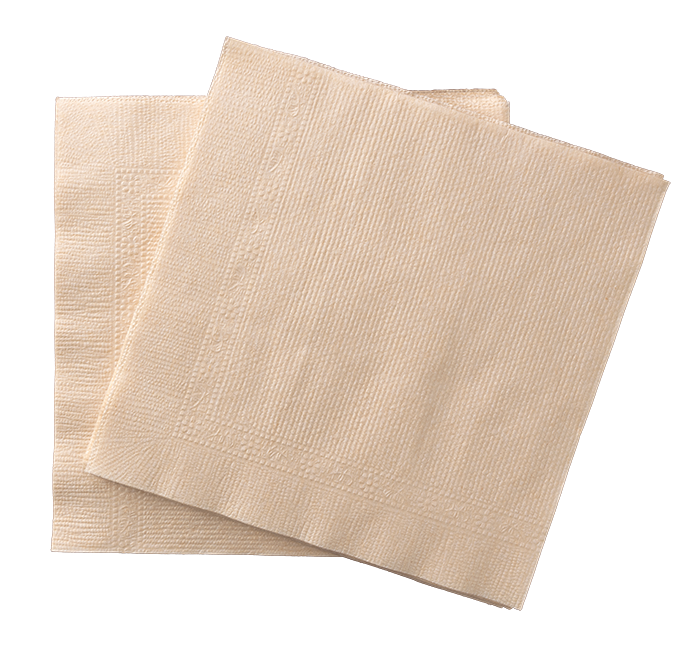
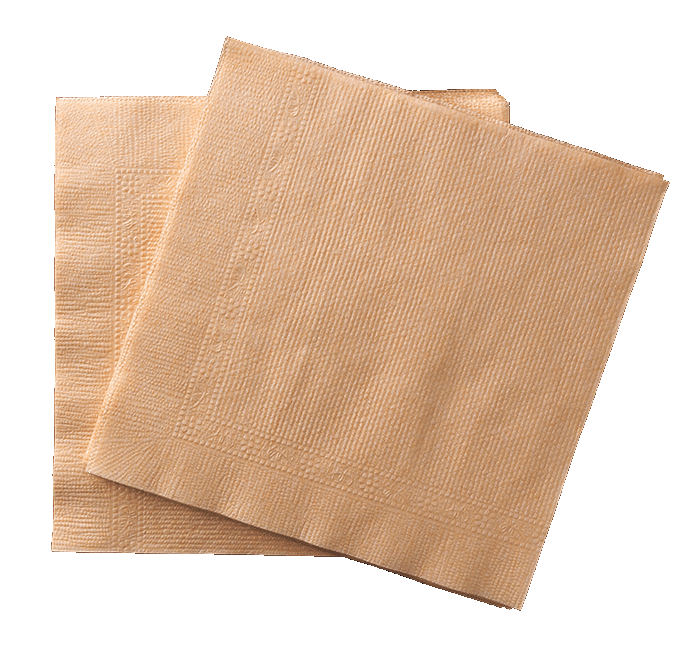
check yourself

diff --git a/studio2/styles.css b/studio2/styles.css
@@ -7,7 +7,6 @@
 body {
     font-family: "Trebuchet MS", sans-serif;
     background: #f2eee7;
-    color: #7e706b;
     padding: 40px;
 }
 
@@ -17,7 +16,7 @@ main {
 }
 
 header {
-    text-align: center;
+    text-align: start;
     margin-bottom: 50px;
 }
 
@@ -25,33 +24,41 @@ h1 {
     font-size: 3rem;
     font-weight: 400;
     text-transform: lowercase;
+    font-family: "Playfair Display", serif;
+    color: #5f534f;
 }
 
 h2 {
     font-size: 1.4rem;
     font-weight: 400;
-    margin: 10px 0;
+    margin: 0px;
+    font-family: "Cantarell", sans-serif;
+    color: #7e706b;
 }
 
 h3 {
-    font-size: 1.6rem;
-    font-weight: 400;
+    font-size: 2.2rem;
+    font-weight: 500;
+    font-family: "Silkscreen", sans-serif;
+    color: #72552f;
+    margin-top: 35px;
 }
 
-/* 3-column row */
+
+/* three column row */
 #layout {
     display: grid;
-    grid-template-columns: 1fr auto 1fr;
+    grid-template-columns: auto auto auto;
+    justify-content: center;
     align-items: center;
-    column-gap: 40px;
+    column-gap: 80px;
 }
 
 /* left */
 .coffee-area {
     display: flex;
-    justify-content: center;
+    justify-content: flex-start;
     align-items: center;
-    margin-left: -150px;
 }
 
 
@@ -71,7 +78,7 @@ h3 {
 }
 
 .latte {
-    width: 400px;
+    width: 500px;
     display: block;
 }
 
@@ -103,61 +110,97 @@ h3 {
     display: flex;
     justify-content: center;
     align-items: center;
+    transform: translateY(-200px);
 }
 
 #timeSelect {
-    padding: 14px 35px 14px 25px;
-    font-size: 1.4rem;
-
-    background-color: #f5eee9;
-    color: #7e706b;
-
-    border: 2px solid #7e706b;
-    border-radius: 30px;
-
+    font-family: "Silkscreen", sans-serif;
+    padding: 10px 40px 10px 30px;
+    font-size: 1.5rem;
+    background-color: #c4741e;
+    color: #fdf7ee;
+    border: 4px solid #efcf9e;
+    border-radius: 50px;
     appearance: none;
 
-    background-image: linear-gradient(45deg, transparent 50%, #7e706b 50%),
-                      linear-gradient(135deg, #7e706b 50%, transparent 50%);
+    background-image: linear-gradient(45deg, transparent 50%, #fdf7ee 50%),
+        linear-gradient(135deg, #fdf7ee 50%, transparent 50%);
+
     background-position: right 18px center, right 12px center;
     background-size: 6px 6px;
     background-repeat: no-repeat;
 
     box-shadow: 3px 3px 0 #e3d8d2;
-    transition: all 0.2s ease;
+    transition: background-color 0.2s ease, color 0.2s ease, box-shadow 0.2s ease, transform 0.2s ease;
+
 }
 
 #timeSelect:hover {
-    background-color:#c4741e;
-    color: #fdf7ee;
-    background-image: linear-gradient(45deg, transparent 50%, #fdf7ee 50%),
-                linear-gradient(135deg, #fdf7ee 50%, transparent 50%);
+    background-color: #eae9e9;
+    color: rgb(91, 69, 59);
+    border: 4px solid #7e706b;
+
+    background-image: linear-gradient(45deg, transparent 50%, #7e706b 50%),
+        linear-gradient(135deg, #7e706b 50%, transparent 50%);
 
     box-shadow: 6px 6px 0 #e3d8d2;
-    transform: translate(-2px, -2px);
+    transform: translateY(-2px);
 }
 
 /* right */
+.napkin-hover {
+    display: inline-block;
+    transition: transform 0.3s ease;
+    transform-origin: bottom center;
+}
+
+.napkin-hover:hover {
+    transform: translateY(-10px) rotate(5deg) scale(1.05);
+}
+
+.napkin-float {
+    animation: fadeUp 1s ease forwards, float 4s ease-in-out infinite;
+    animation-delay: 0s, 1s;
+}
+
 .info-area {
+    display: flex;
+    flex-direction: column;
+    align-items: center;
+    justify-content: center;
+
     position: relative;
-    padding: 100px 160px; /* gives space so napkin shows */
+    width: 520px;
+    min-height: 420px;
 
     background-image: url("images/napkin.png");
     background-repeat: no-repeat;
+    background-size: 500px auto;
     background-position: center;
-    background-size: contain;
+
+    padding: 110px 80px;
+}
+
+.info-area h4,
+.info-area p {
+    margin-left: 20px;
+    color: #634929;
+
 }
 
 .info-area h4 {
-    font-size: 2.5rem;
+    font-size: 2.2rem;
+    font-weight: lighter;
     margin-bottom: 15px;
+    font-family: "Fuzzy Bubbles", sans-serif;
 }
 
 .info-area p {
-    font-size: 1.5rem;
-    margin-bottom: 8px;
+    font-size: 1.6rem;
+    margin-bottom: 16px; /* increase this */
+    line-height: 1.5;    /* adds space inside each line */
+    font-family: "Fuzzy Bubbles", sans-serif;
 }
-
 /* mobile */
 @media (max-width: 900px) {
     body {
@@ -184,4 +227,15 @@ h3 {
     .latte {
         width: 300px;
     }
+}
+
+
+.float-letter {
+    display: inline-block;
+    transition: transform 0.45s ease, text-shadow 0.45s ease;
+}
+
+.float-letter:hover {
+    transform: translateY(-6px) scale(1.03);
+    text-shadow: 0 4px 12px rgba(255, 255, 255, 0.35);
 }

diff --git a/studio2/script.js b/studio2/script.js
@@ -1,0 +1,63 @@
+(function () {
+    'use strict';
+
+    const headers = document.querySelectorAll('h1, h2, h3');
+    const timeSelect = document.querySelector('#timeSelect');
+    const displayTime = document.querySelector('#displayTime');
+    const displayMood = document.querySelector('#displayMood');
+    const displayCoffee = document.querySelector('#displayCoffee');
+    const displayNotes = document.querySelector('#displayNotes');
+
+    function wrapLetters(element) {
+        const text = element.textContent;
+        let wrappedText = '';
+
+        for (let i = 0; i < text.length; i++) {
+            const char = text[i];
+
+            if (char === ' ') {
+                wrappedText += ' ';
+            } else {
+                wrappedText += `<span class="float-letter">${char}</span>`;
+            }
+        }
+
+        element.innerHTML = wrappedText;
+    }
+
+    headers.forEach(function (header) {
+        wrapLetters(header);
+    });
+
+    async function getData() {
+        const response = await fetch('data.json');
+        const data = await response.json();
+
+        Object.keys(data).forEach(function (key) {
+            const option = document.createElement('option');
+
+            option.value = key;
+            option.textContent = data[key].time;
+
+            timeSelect.appendChild(option);
+        });
+
+        timeSelect.addEventListener('change', function () {
+            const selectedPoint = timeSelect.value;
+
+            if (selectedPoint === '') {
+                displayTime.textContent = 'time';
+                displayMood.textContent = '—';
+                displayCoffee.textContent = '—';
+                displayNotes.textContent = '—';
+            } else {
+                displayTime.textContent = data[selectedPoint].time;
+                displayMood.textContent = `${data[selectedPoint].mood}/5`;
+                displayCoffee.textContent = data[selectedPoint].coffee;
+                displayNotes.textContent = data[selectedPoint].reason;
+            }
+        });
+    }
+
+    getData();
+})();

diff --git a/studio2/index.html b/studio2/index.html
@@ -4,6 +4,11 @@
     <meta charset="UTF-8">
     <meta name="viewport" content="width=device-width, initial-scale=1.0">
     <title>Studio 2: Check Yourself</title>
+
+    <link rel="preconnect" href="https://fonts.googleapis.com">
+    <link rel="preconnect" href="https://fonts.gstatic.com" crossorigin>
+    <link href="https://fonts.googleapis.com/css2?family=Cantarell:ital,wght@0,400;0,700;1,400;1,700&family=Fuzzy+Bubbles:wght@400;700&family=Playfair+Display:ital,wght@0,400..900;1,400..900&family=Quantico:ital,wght@0,400;0,700;1,400;1,700&family=Silkscreen:wght@400;700&display=swap" rel="stylesheet">
+
     <link rel="stylesheet" href="styles.css">
     <script src="script.js" defer></script>
 </head>
@@ -11,9 +16,9 @@
 <body>
     <main>
         <header>
-            <h1>coffee + mood check</h1>
-            <h2>tracking my mood over 2 hours.</h2>
-            <h3>4/20/26</h3>
+            <h1 class="h1">coffee + mood check</h1>
+            <h2 class="h2">tracking my mood and coffee intake over 2 hours.</h2>
+            <h3 class="h3">4/20/26</h3>
         </header>
 
         <section id="layout">
@@ -31,11 +36,15 @@
                 </select>
             </div>
 
-            <div class="info-area">
-                <h4 id="displayTime">time</h4>
-                <p><strong>mood:</strong> <span id="displayMood">—</span></p>
-                <p><strong>coffee level:</strong> <span id="displayCoffee">—</span></p>
-                <p><strong>notes:</strong> <span id="displayNotes">—</span></p>
+            <div class="napkin-hover">
+                <div class="napkin-float">
+                    <div class="info-area">
+                        <h4 id="displayTime">time</h4>
+                        <p><strong>mood:</strong> <span id="displayMood">—</span></p>
+                        <p><strong>coffee:</strong> <span id="displayCoffee">—</span></p>
+                        <p><strong>notes:</strong> <span id="displayNotes">—</span></p>
+                    </div>
+                </div>
             </div>
         </section>
     </main>

diff --git a/studio1/styles.css b/studio1/styles.css
@@ -28,7 +28,6 @@ header {
     margin: 0 auto;
     text-align: center;
     padding: 20px 0;
-    font-family: "Cormorant Garamond", serif;
 }
 
 header,
@@ -44,6 +43,15 @@ h1 {
     font-weight: 1000;
     letter-spacing: 0.08em;
     color: rgb(255, 255, 255);
+    font-family: "Cormorant Garamond", serif;
+}
+
+h2 {
+    color: rgb(255, 255, 255);
+    font-weight: lighter;
+    margin-top: 5px;
+    font-family: "Noto Sans Mono", monospace;
+    font-size: 1.4em;
 }
 
 main {
@@ -56,6 +64,7 @@ main {
 
 .video-section {
     position: relative;
+    margin-top: -15px;
     width: 100%;
     height: 675px;
     overflow: hidden;

diff --git a/studio1/index.html b/studio1/index.html
@@ -21,6 +21,7 @@
 
     <header>
         <h1>UC Davis Arboretum</h1>
+        <h2>click to ripple the surface, hover to bring poetry to life.</h2>
     </header>
 
     <main>
